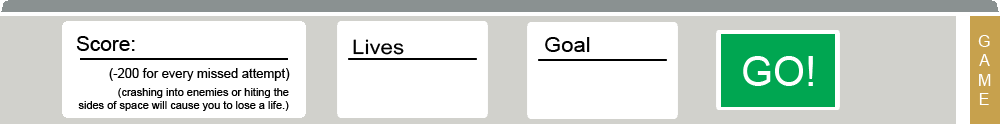
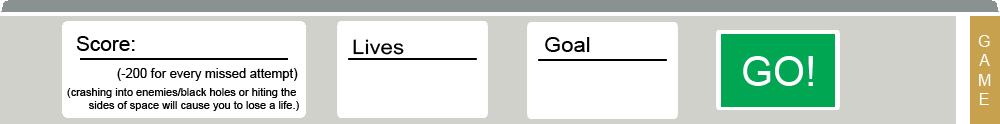
added black hole

Changed region(s): [[0.093, 0.5323, 0.31, 0.6532], [0.062, 0.7984, 0.31, 0.8952], [0.062, 0.7016, 0.31, 0.7984]]

diff --git a/main.py b/main.py
@@ -9,13 +9,14 @@ from goal import Goal
 from bar import *
 from starfield import Starfield
 from transitions import Intro, Transition
+from obstacles import BlackHole
 
 
 class Game(object):
     title = 'Gravity'
     screen_size = 1000, 750
     
-    def __init__(self,level=0):
+    def __init__(self,level=1):
         pygame.init()
         
         self.screen = pygame.display.set_mode(self.screen_size)
@@ -27,16 +28,19 @@ class Game(object):
         self.startItems = RenderUpdates()
         self.playerGroup = RenderUpdates()
         self.tails = RenderUpdates()
+        self.obstacles = RenderUpdates()
         self.goalCollide = Group()
         self.toolbar = OrderedUpdates()
         #self.intro_screen = Intro(0,0,self.startItems)
         self.bar = ToolBar(0,626,self.toolbar,self.screen,self)
-        self.goal = Goal(600,300,self.goalCollide)
+        self.goal = Goal(573,372,self.goalCollide)
         self.player = Player(50,535,self.screen,(255,0,0),self.playerGroup,1000,750,self.tails)
         self.transition = Transition(-1314,0,self.screen,self.startItems)
         self.level = level
         self.levelUp = True
-        self.stars = Starfield(self.screen,1000,626,70)
+        self.stars = Starfield(self.screen,1000,626,200)
+        BlackHole(339,70,self.obstacles,self.screen,80,71)
+
 
     def quit(self):
         self.gameOver = False
@@ -92,8 +96,8 @@ class Game(object):
                     self.player.refresh(3)
                 if evt.key == K_t:
                     self.player.refresh(4)
-            #if evt.type == MOUSEBUTTONDOWN:
-               # print pygame.mouse.get_pos()
+            if evt.type == MOUSEBUTTONDOWN:
+                print pygame.mouse.get_pos()
             if evt.type == MOUSEBUTTONDOWN:
                 self.bar.collision_test(pygame.mouse.get_pos(),self.player)
             if evt.type == MOUSEBUTTONUP:
@@ -102,11 +106,13 @@ class Game(object):
 
      
         self.stars.draw()
+        self.obstacles.update()
         self.bar.update(pygame.mouse.get_pos())
         self.userPlacedObjects.update(self.screen)
         self.goalCollide.draw(self.screen)
         self.toolbar.draw(self.screen)
         self.player.drawTails()
+        self.obstacles.draw(self.screen)
         self.playerGroup.update()
         self.playerGroup.draw(self.screen)  
 
@@ -120,6 +126,8 @@ class Game(object):
                 
         if pygame.sprite.spritecollideany(self.player, self.goalCollide) != None:
             self.next_level()
+        elif pygame.sprite.spritecollideany(self.player,self.obstacles) != None:
+            self.player.blackHoleCollision(True,False)
 
         pygame.display.flip()
 
@@ -150,6 +158,7 @@ class Game(object):
             self.goalCollide.draw(self.screen)
             self.toolbar.draw(self.screen)
             self.player.drawTails()
+            self.obstacles.draw(self.screen)
             self.playerGroup.draw(self.screen)  
             self.startItems.draw(self.screen)
             if self.transition.rect.x > 1000:
@@ -184,7 +193,7 @@ class Game(object):
                 self.gameOver_tick()
 
 
-Game(1).run()
+Game().run()
 
 '''TODO'''
 ####GRAVITY OBJECTS (PLACEABLE/predefined)

diff --git a/player.py b/player.py
@@ -27,11 +27,37 @@ class Player(Sprite):
         self.tailColors = [(0,0,255),(0,114,54),(255,255,0),(237,28,36),(199,178,153),(158,0,93)]
         self.tail = Tails(self.tailGroup,self.tailColors[self.tailColorCounter])
         self.newplace = self.goTo[0]
+        self.addTail = True
+        self.alive = True
+        self.shrink = False
+        self.shrinkw = self.rect.w
+        self.shrinkh = self.rect.h
+        self.shrinkx = self.rect.x
+        self.shrinky = self.rect.y
+        self.shrinkTime = True
+        self.backup = self.image
 
 
 
-    def update(self):
-        self.alive = self.dead()
+    def update(self,boo=False):
+        self.dead(boo)
+        if self.shrink and self.shrinkw > 5:
+            if self.shrinkTime:
+                self.shrinkw -= 1
+                self.shrinkh -= 1
+                foo = pygame.transform.scale(self.image,(self.shrinkw,self.shrinkh))
+                foo = pygame.transform.rotate(foo,30)
+                self.rect.y -= 2
+                self.image = foo
+                self.shrinkTime = False
+                return
+            else:
+                self.shrinkTime = True
+        elif self.shrink:
+            self.image = self.backup
+            self.shrinkReset()
+            self.blackHoleCollision(False,True,True)
+            
         if not self.alive:
             if self.tailColorCounter == len(self.tailColors)-1:
                 self.tailColorCounter = 0
@@ -43,24 +69,33 @@ class Player(Sprite):
             self.lives -= 1
             self.tail = Tails(self.tailGroup,self.tailColors[self.tailColorCounter])
             self.remove(self.group)
+            self.alive = True
             
         elif self.makeANew:
-            self.tail.newSpace(self.rect.x,self.rect.y)
+            if self.addTail:
+                self.tail.newSpace(self.rect.x,self.rect.y)
             newX, newY = self.newplace
             self.rect.x += newX
             self.rect.y += newY
             
     def refresh(self,newplace):
         self.newplace = self.goTo[newplace]
+
+    def blackHoleCollision(self,shrink,tail,boo=False):
+        self.shrink = shrink
+        self.addTail = tail
+        self.update(boo)
         
 
-    def dead(self):
+    def dead(self, boo):
         if self.rect.x > self.maxX-self.rect.w or self.rect.x < 0:
-            return False
+            self.alive = False
         elif self.rect.y > self.maxY-self.rect.h or self.rect.y < 0:
-            return False
+            self.alive = False
+        elif not boo:
+            self.alive =  True
         else:
-            return True
+            self.alive = False
 
     def drawTails(self):
         for tail in self.tailGroup:
@@ -71,6 +106,11 @@ class Player(Sprite):
 
     def getPlayerPos(self):
         return self.rect.x, self.rect.y
+
+    def shrinkReset(self):
+        self.shrinkTime = True
+        self.shrinkw = self.rect.w
+        self.shrinkh = self.rect.h
             
     def restart(self):
         x,y = self.reset

diff --git a/obstacles.py b/obstacles.py
@@ -1,0 +1,28 @@
+#!/usr/bin/env python
+
+import pygame
+from pygame.locals import *
+from pygame.sprite import Sprite
+import system
+
+class BlackHole(Sprite):
+    image = None
+    def __init__(self,x,y,group,surf,w,h,image=str('black_hole.png')):
+        Sprite.__init__(self)
+        if self.image == None:
+            self.image = system.load_graphics(image)
+        self.image = self.scale(w,h)
+        self.rect = self.image.get_rect()
+        self.rect.x = x
+        self.rect.y = y
+        self.group = group
+        self.add(self.group)
+        self.surface = surf
+
+    def scale(self,w,h):
+        return pygame.transform.scale(self.image, (w,h))
+        
+        
+
+    def update(self):
+        pass

diff --git a/starfield.py b/starfield.py
@@ -12,8 +12,9 @@ class Starfield(object):
         self.width = screenw
         self.max_stars = max_stars
         for i in range(self.max_stars):
-            star = [randrange(0,self.width-1),randrange(0,self.height-1),2]
-            star.append((170,170,170))
+            color = randrange(170,250)
+            star = [randrange(0,self.width-1),randrange(0,self.height-1),randrange(1,3)]
+            star.append((color,color,color))
             self.stars.append(star)
 
     def draw(self):
